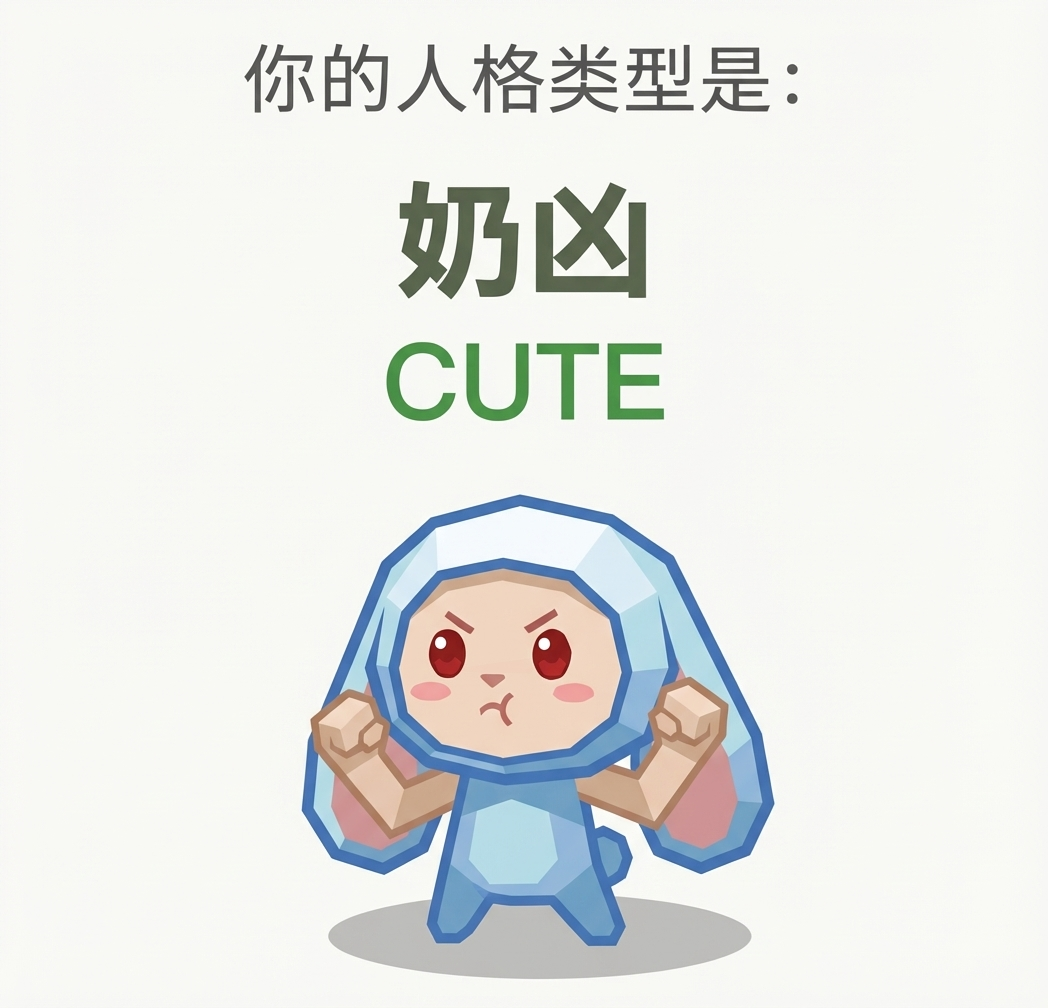
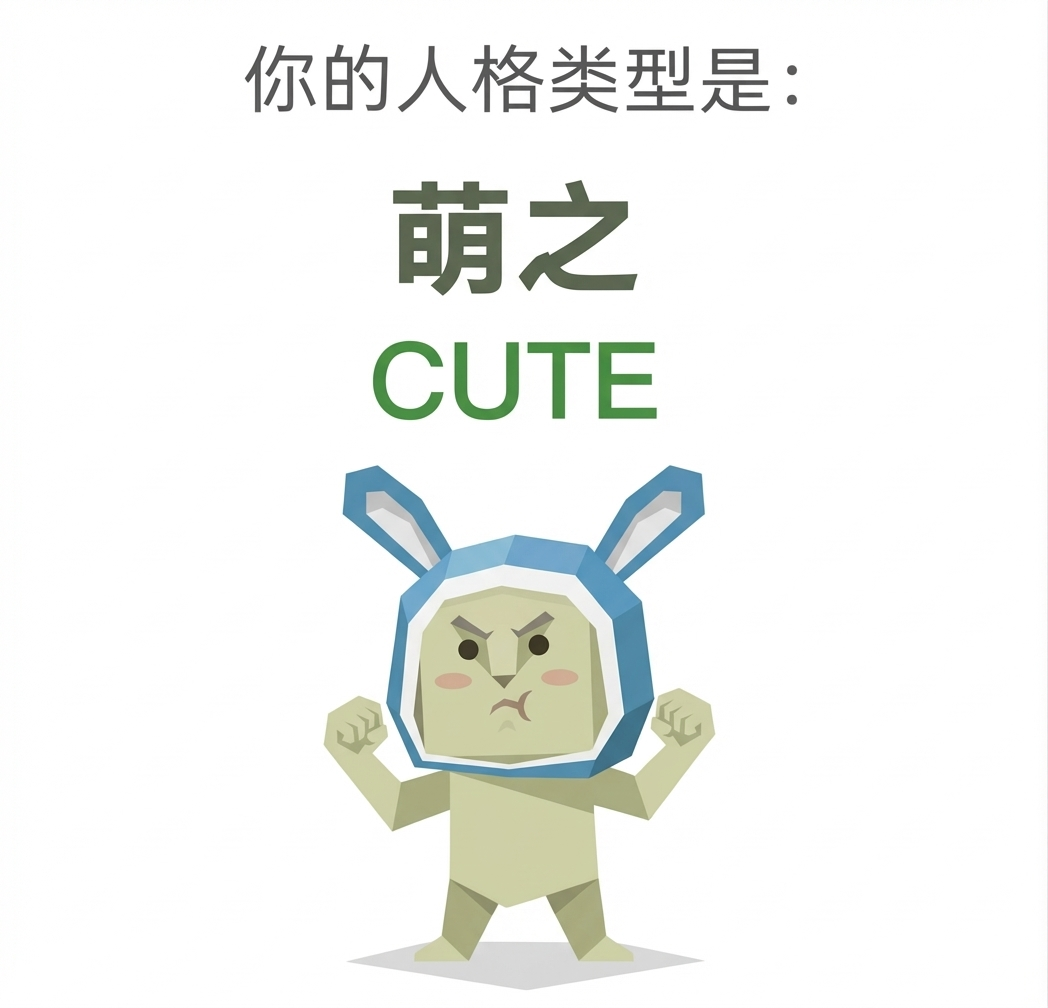
fix: CUTE rename 奶凶→萌之, add 😡 to intro, regenerate image as proper 小绿人

diff --git a/index.html b/index.html
@@ -1664,8 +1664,8 @@
   },
   "CUTE": {
     "code": "CUTE",
-    "cn": "奶凶",
-    "intro": "践踏他们！",
+    "cn": "萌之",
+    "intro": "践踏他们！😡",
     "desc": "恭喜你，CUTE奶凶人格——外表是兔耳帽兜里探出来的糯米团子，内心是一台随时准备启动的微型推土机。所有人第一眼看到你都会发出“好可爱啊啊啊啊”的尖叫，然后第二眼就被你一句冷不丁的狠话吓得后退三步。你的杀伤力不在于凶，而在于反差——用世界上最软糯的声音说出最不讲道理的话，用最无辜的大眼睛释放最具威胁性的眼神。践踏他们！这三个字从你嘴里说出来，所有人都觉得好可爱，没有人意识到你是认真的。奶凶的本质是：明明可以靠可爱征服世界，偏偏还要在可爱的外壳里装一颗小炸弹。你不是在撒娇，你是在宣战——只不过宣战书是用粉色墨水写的，上面还画了个爱心。"
   }
 };